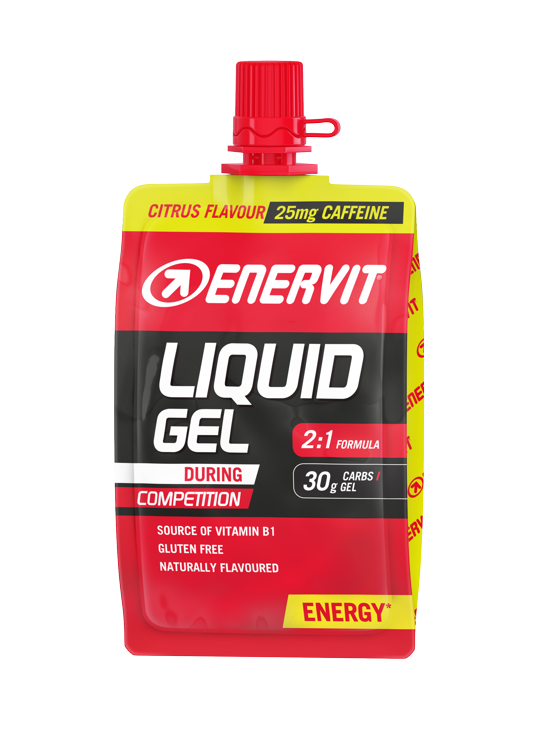
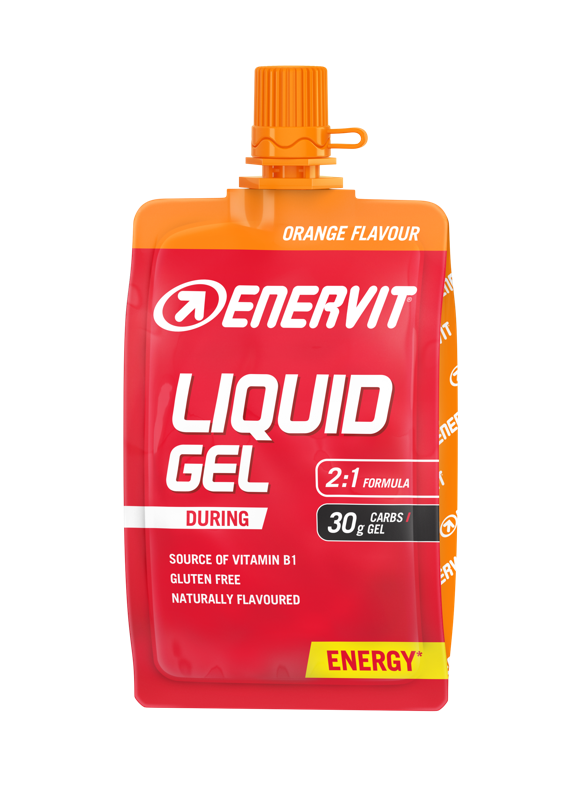
feat: upgrade to official Enervit brand packshots from brand asset package
- Replaced all product images with official transparent PNG packshots from Enervit brand package
- Sources: C2:1 (gels, bars, chews, isocarb), SPORT (isotonic, recovery, presport, magic cherry, etc.), PURE PRO (electrolytes)
- All images optimized for web (max 800px, ~150-520KB each)
- Added new products: C2:1PRO Cola Caffeine, Mango, Liquid Gel, Isotonic Gel, Pure Pro Electrolytes Boost, After Sport Drink
- Brand assets archived to VitarSport2026/Context/brand-assets/enervit-brand/

Changed region(s): [[0.2074, 0.0621, 0.8, 0.8691], [0.3259, 0.3725, 0.4148, 0.4035], [0.2963, 0.3414, 0.3259, 0.3725]]

diff --git a/src/data/products.ts b/src/data/products.ts
@@ -92,7 +92,7 @@ export const products: Product[] = [
     description: "Nápoj pro carbo-loading v posledních dnech před závodem. Pomáhá maximalizovat zásoby svalového glykogenu pro vytrvalostní výkony delší než 90 minut.",
     usage: "Pijte 2-3 dny před závodem, 1-2 porce denně navíc k běžné stravě.",
     price: 79,
-    image: "/images/products/carboloader.jpg",
+    image: "/images/products/carboloader.png",
     badge: "BEFORE",
     nutrition: { carbs: "60g", sodium: "120mg", calories: "240 kcal" },
     relatedSlugs: ["isotonic-drink", "carbo-gel-lemon-sodium"],
@@ -185,19 +185,18 @@ export const products: Product[] = [
     relatedSlugs: ["competition-bar", "carbo-gel-lemon-sodium", "isotonic-drink"],
   },
   {
-    slug: "electrolyte-rtd",
-    name: "Electrolyte RTD",
-    category: "during",
-    categoryLabel: "Během sportu",
-    tagline: "Ready to Drink hydratace v plechovce",
-    description: "Revoluční elektrolytový nápoj v plechovce. Bez kofeinu, bez cukru, s přírodní příchutí. Sodík 200mg, hořčík 150mg, draslík 40mg. Jemně perlivý – karbonatace pomáhá otevřít žaludek. Trend z USA, nově v Evropě.",
-    usage: "Pijte před, během i po sportu. Ideální i na cesty a do fitness.",
-    price: 65,
-    image: "/images/products/electrolyte-rtd.png",
-    badge: "DURING",
-    isNew: true,
-    nutrition: { sodium: "200mg", calories: "5 kcal" },
-    relatedSlugs: ["isotonic-drink", "carbo-gel-orange", "recovery-drink"],
+    slug: "after-sport-drink",
+    name: "After Sport Drink",
+    category: "after",
+    categoryLabel: "Po sportu",
+    tagline: "Rychlá regenerace po krátkém výkonu",
+    description: "Nápoj pro regeneraci po 1-2 hodinových trénincích. Obsahuje sacharidy, minerály a BCAA. Citronová příchuť. Ideální doplněk k R2 Recovery Drink pro kratší výkony.",
+    usage: "Rozpusťte 1 sáček v 400ml vody ihned po tréninku.",
+    price: 45,
+    image: "/images/products/after-sport.png",
+    badge: "AFTER",
+    nutrition: { carbs: "25g", protein: "5g", sodium: "200mg", calories: "130 kcal" },
+    relatedSlugs: ["recovery-drink", "recovery-bar", "magic-cherry"],
   },
   // AFTER
   {
@@ -238,7 +237,7 @@ export const products: Product[] = [
     description: "Koncentrát z višní Montmorency bohatý na antioxidanty a přirozené melatonin. Pomáhá redukovat zánět a zlepšuje kvalitu spánku. Bestseller v CZ/SK – první palety rozprodány za dny.",
     usage: "1 tableta denně před spaním nebo po náročném tréninku.",
     price: 449,
-    image: "/images/products/magic-cherry.jpg",
+    image: "/images/products/magic-cherry.png",
     badge: "RECOVERY",
     nutrition: { calories: "5 kcal" },
     relatedSlugs: ["recovery-drink", "creatine"],
@@ -252,7 +251,7 @@ export const products: Product[] = [
     description: "Mikronizovaný kreatin monohydrát pro zvýšení svalové síly a výkonu při krátkodobém intenzivním zatížení. Vědecky nejlépe podložený doplněk pro sportovce.",
     usage: "5g denně (1 odměrka) rozpuštěných ve vodě nebo šťávě.",
     price: 399,
-    image: "/images/products/creatine.jpg",
+    image: "/images/products/creatine.png",
     nutrition: { protein: "5g kreatin", calories: "0 kcal" },
     relatedSlugs: ["recovery-drink", "recovery-bar"],
   },
@@ -279,10 +278,82 @@ export const products: Product[] = [
     description: "Brusniková varianta nové řady Hot Bar. Příjemná chuť pro sportovce i nesportovce. Ideální pro lyžování, turistiku a každodenní svačinu. Bez lepku.",
     usage: "Kdykoli během dne, ideální pro outdoorové aktivity.",
     price: 29,
-    image: "/images/products/hot-bar-cranberry.jpg",
+    image: "/images/products/hot-bar-cranberry.png",
     isNew: true,
     nutrition: { carbs: "25g", protein: "7g", calories: "155 kcal" },
     relatedSlugs: ["hot-bar-chocolate", "pre-sport-energy-bar"],
+  },
+  // PURE PRO
+  {
+    slug: "electrolyte-boost",
+    name: "Pure Pro Electrolytes Boost",
+    category: "during",
+    categoryLabel: "Během sportu",
+    tagline: "Elektrolyty nové generace",
+    description: "Nová řada Pure Pro přináší prémiové elektrolyty v praktických sáčcích. Sodík, draslík a hořčík v optimálním poměru. Bez cukru, bez umělých barviv. Citrónová příchuť.",
+    usage: "Rozpusťte 1 sáček v 500ml vody. Pijte před, během i po sportu.",
+    price: 45,
+    image: "/images/products/electrolyte-rtd.png",
+    badge: "DURING",
+    isNew: true,
+    nutrition: { sodium: "250mg", calories: "10 kcal" },
+    relatedSlugs: ["isotonic-drink", "carbo-gel-orange", "recovery-drink"],
+  },
+  {
+    slug: "carbo-gel-cola",
+    name: "C2:1PRO Carbo Gel Cola Caffeine",
+    category: "during",
+    categoryLabel: "Během sportu",
+    tagline: "Energie s kofeinem pro závěrečný nástup",
+    description: "Energetický gel s technologií C2:1PRO obohacený o 50mg kofeinu. Colová příchuť. Ideální v závěrečné fázi závodu pro mentální ostrost a fyzický boost.",
+    usage: "Konzumujte v druhé polovině závodu, max 2 kofeinové gely za hodinu.",
+    price: 59,
+    image: "/images/products/carbo-gel-cola.png",
+    badge: "DURING",
+    nutrition: { carbs: "30g", caffeine: "50mg", calories: "120 kcal" },
+    relatedSlugs: ["carbo-gel-orange", "carbo-gel-lemon-sodium", "isotonic-drink"],
+  },
+  {
+    slug: "carbo-gel-mango",
+    name: "C2:1PRO Carbo Gel Mango",
+    category: "during",
+    categoryLabel: "Během sportu",
+    tagline: "Tropická chuť, maximální výkon",
+    description: "Mangová příchuť v řadě C2:1PRO gelů. Stejná technologie 2:1 maltodextrin:fruktóza pro optimální vstřebávání. Oblíbená volba pro letní závody.",
+    usage: "1 gel každých 30-45 minut během výkonu. Zapijte vodou.",
+    price: 55,
+    image: "/images/products/carbo-gel-mango.png",
+    badge: "DURING",
+    nutrition: { carbs: "30g", sodium: "50mg", calories: "120 kcal" },
+    relatedSlugs: ["carbo-gel-orange", "carbo-gel-lemon-sodium", "competition-bar"],
+  },
+  {
+    slug: "liquid-gel",
+    name: "Liquid Gel Orange",
+    category: "during",
+    categoryLabel: "Během sportu",
+    tagline: "Tekutý gel bez nutnosti zapíjet",
+    description: "Inovativní tekutý gel, který nepotřebujete zapíjet vodou. Lehká konzistence, snadné otevření i za jízdy. Pomerančová příchuť. Hit sezóny 2024.",
+    usage: "Konzumujte přímo, bez nutnosti zapíjet. 1 gel každých 30-45 minut.",
+    price: 59,
+    image: "/images/products/liquid-gel.png",
+    badge: "DURING",
+    nutrition: { carbs: "30g", sodium: "80mg", calories: "120 kcal" },
+    relatedSlugs: ["carbo-gel-orange", "isotonic-gel-apple", "isotonic-drink"],
+  },
+  {
+    slug: "isotonic-gel-apple",
+    name: "Isotonic Gel Apple",
+    category: "during",
+    categoryLabel: "Během sportu",
+    tagline: "Izotonický gel – žádné zapíjení",
+    description: "Gel s izotonickou formulí, který nevyžaduje zapíjení vodou. Jablečná příchuť. 20g sacharidů na porci – ideální pro průběžné doplňování energie v kratších intervalech.",
+    usage: "1 gel každých 20-30 minut. Není nutné zapíjet vodou.",
+    price: 49,
+    image: "/images/products/isotonic-gel.png",
+    badge: "DURING",
+    nutrition: { carbs: "20g", sodium: "100mg", calories: "80 kcal" },
+    relatedSlugs: ["liquid-gel", "carbo-gel-orange", "isotonic-drink"],
   },
 ];
 
